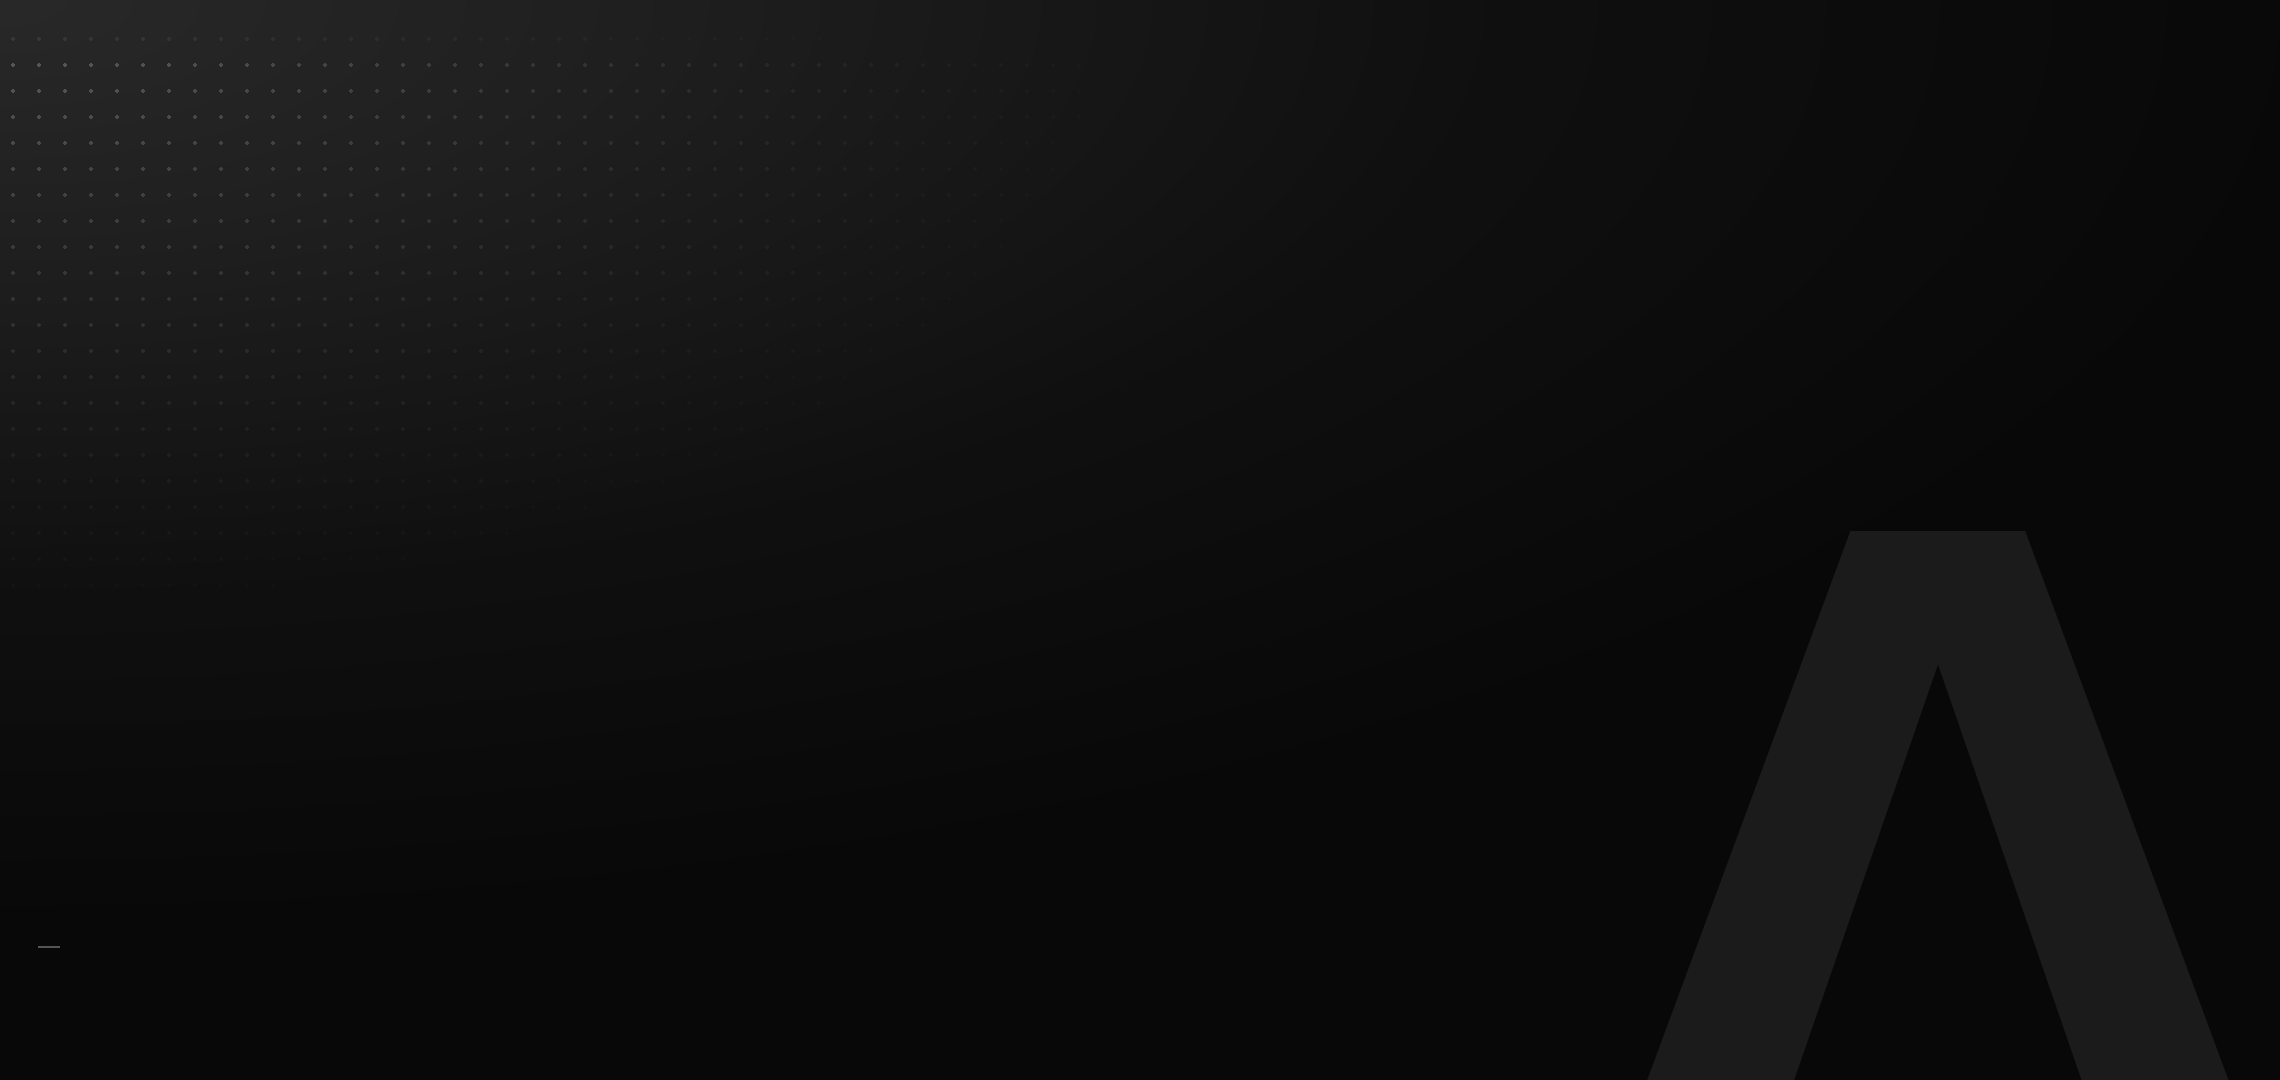
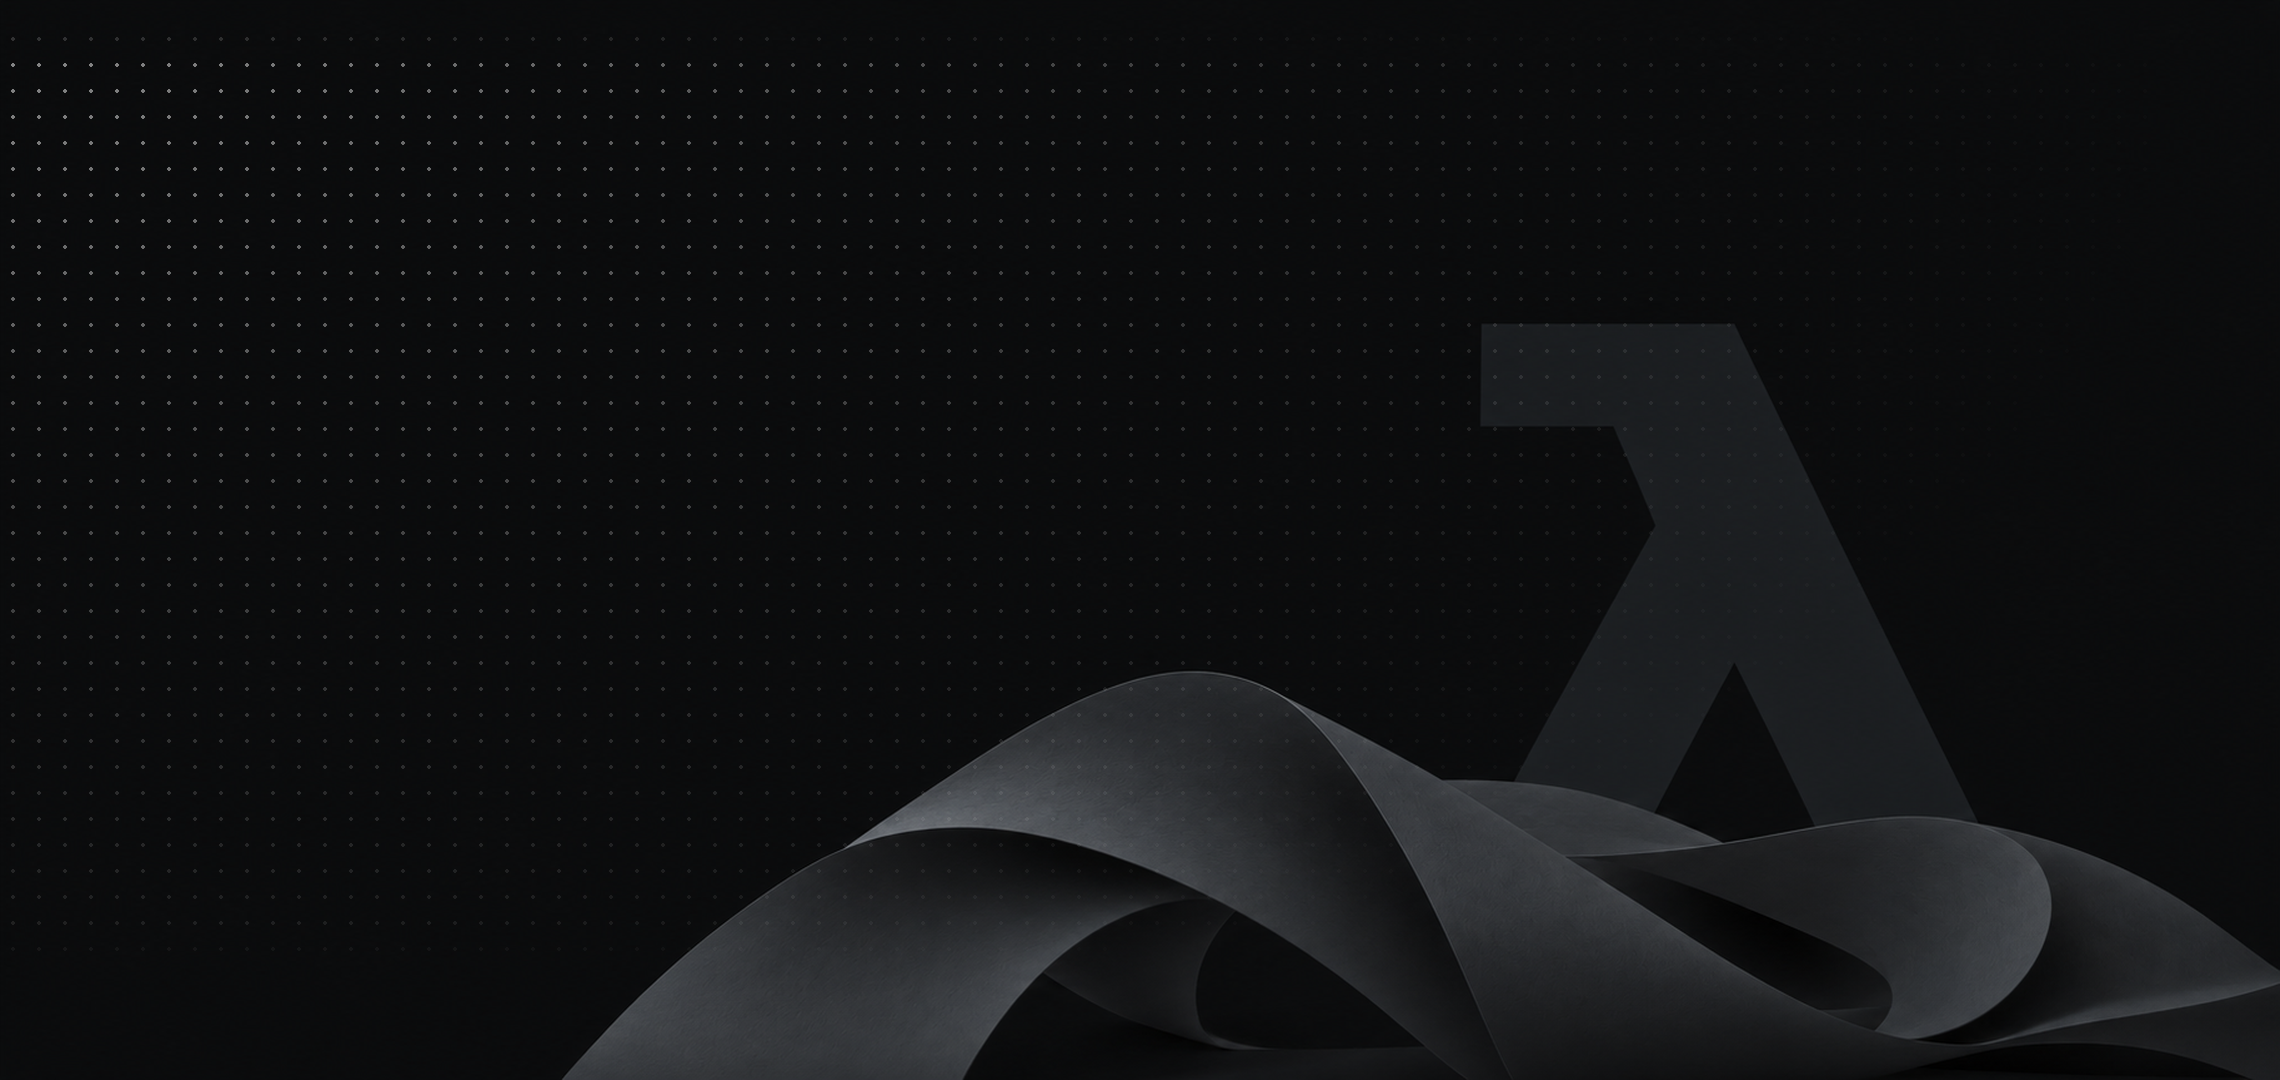
feat(lex): theme sync, light wallpapers and 72px top bar
Follows lambda_theme with theme-watch.sh, adds light plates and painted sources, updates the panel layout and DESIGN.md.

diff --git a/alpha/lex/make_wallpaper.py b/alpha/lex/make_wallpaper.py
@@ -1,10 +1,14 @@
 #!/usr/bin/env python3
-"""Generate the LEX wallpaper identity: radial graphite gradient, fine dot
-field fading with distance, clipped Lambda mark on the right, one tick line.
+"""Generate the LEX wallpaper identity: a painted background, the LambdaOS mark
+sitting behind the silhouette on the right, and the fine dot field fading from
+the top-left corner.
 
 Deterministic, numpy + PIL, no network. Usage:
-    make_wallpaper.py [WxH] [out.png]
-Defaults to 2280x1080 and theme/wallpaper/lambdaos-WxH.png.
+    make_wallpaper.py [WxH] [out.png] [--light]
+Defaults to 2280x1080 and theme/wallpaper/lambdaos-WxH.png. The painted
+background comes from theme/wallpaper/source/background-{dark,light}.png; if it
+is missing the radial graphite gradient is used instead, so the script still
+works on its own.
 """
 import re
 import sys
@@ -14,30 +18,62 @@ import numpy as np
 from PIL import Image, ImageDraw, ImageFont
 
 BASE = Path(__file__).resolve().parent
+SOURCE = BASE / "theme" / "wallpaper" / "source"
 FONT = "/usr/share/fonts/truetype/dejavu/DejaVuSans-Bold.ttf"
 REF_H = 1080
-TOP_BAR = 28     # xfce4-panel height
+TOP_BAR = 44     # xfce4-panel height
 DOCK_BAND = 110  # dock 76 + 12 px gap + margin
 EDGE = 36        # dot fade ramp just outside the reserved bands
 
 
-def render(w: int, h: int) -> Image.Image:
-    s = h / REF_H
+def painted(w: int, h: int, light: bool) -> Image.Image:
+    """The soft silhouette painted for this build, or the radial gradient if absent."""
+    name = "background-light.png" if light else "background-dark.png"
+    path = SOURCE / name
+    if path.is_file():
+        plate = Image.open(path).convert("RGB").resize((w, h), Image.LANCZOS)
+        if light:
+            arr = np.array(plate).astype(np.float32)
+            plate = Image.fromarray(np.clip(243 + (arr - 243) * 1.9, 0, 255).astype(np.uint8))
+        return plate
     y, x = np.mgrid[0:h, 0:w].astype(np.float32)
     radius = np.sqrt((x / (w * 1.05)) ** 2 + (y / (h * 0.88)) ** 2)
     stops = [0.0, 0.25, 0.62, 1.0]
     colors = [(0x29, 0x29, 0x29), (0x20, 0x20, 0x20), (0x10, 0x10, 0x10), (0x08, 0x08, 0x08)]
     channels = [np.interp(radius, stops, [c[i] for c in colors]) for i in range(3)]
-    img = Image.fromarray(np.dstack(channels).astype(np.uint8)).convert("RGBA")
-    draw = ImageDraw.Draw(img)
+    return Image.fromarray(np.dstack(channels).astype(np.uint8)).convert("RGB")
 
-    # Clipped Lambda mark on the right, as on the setup plate.
-    font = ImageFont.truetype(FONT, round(780 * s))
-    draw.text((w - 40 * s, h + 20 * s), "Λ", font=font, fill=(0x1b, 0x1b, 0x1b, 255), anchor="rs")
+
+def mark(w: int, h: int, light: bool) -> Image.Image:
+    """The LambdaOS mark, low contrast and faded at the bottom so the painted
+    silhouette reads as sitting in front of it. Clipped by the bottom edge."""
+    height = round(h * 0.74)
+    glyph = Image.open(SOURCE / "mark.png").convert("RGBA")
+    glyph = glyph.crop(glyph.getbbox()).resize((height, height), Image.LANCZOS)
+    pad = Image.new("RGBA", (w, h), (0, 0, 0, 0))
+    # Right edge at 86% of the width: to the right, but not against the border.
+    x = round(w * 0.86) - glyph.width
+    y = h - round(glyph.height * 0.93)
+    tint = (0xE2, 0xE2, 0xDC, 255) if light else (0x26, 0x28, 0x2A, 255)
+    solid = Image.new("RGBA", glyph.size, tint)
+    pad.paste(solid, (x, y), glyph)
+    # Fade toward the bottom edge: the silhouette in front covers the lower part.
+    ramp = np.clip((np.mgrid[0:h, 0:w][0].astype(np.float32) - h * 0.55) / (h * 0.5), 0, 1)
+    alpha = np.array(pad)[:, :, 3].astype(np.float32) * (1 - 0.65 * ramp)
+    out = np.array(pad)
+    out[:, :, 3] = np.clip(alpha, 0, 255).astype(np.uint8)
+    return Image.fromarray(out)
+
+
+def render(w: int, h: int, light: bool = False) -> Image.Image:
+    s = h / REF_H
+    img = painted(w, h, light).convert("RGBA")
+    img = Image.alpha_composite(img, mark(w, h, light))
+    draw = ImageDraw.Draw(img)
     # Tick sits above the dock band so the band keeps no local detail.
     tick_y = h - DOCK_BAND - 24
-    draw.line([(38 * s, tick_y), (59 * s, tick_y)], fill=(0x55, 0x55, 0x55, 255),
-              width=max(1, round(2 * s)))
+    ink = (0x9a, 0x9a, 0x96, 255) if light else (0x55, 0x55, 0x55, 255)
+    draw.line([(38 * s, tick_y), (59 * s, tick_y)], fill=ink, width=max(1, round(2 * s)))
 
     dots = Image.new("RGBA", (w, h), (0, 0, 0, 0))
     dot = ImageDraw.Draw(dots)
@@ -50,9 +86,10 @@ def render(w: int, h: int) -> Image.Image:
         xx = 13 * s
         while xx < w:
             d = ((xx / (w * 0.62)) ** 2 + (yy / (h * 0.72)) ** 2) ** 0.5
-            alpha = int(255 * 0.32 * max(0.0, 1.0 - d) ** 2 * band)
+            alpha = int(255 * (0.20 if light else 0.32) * max(0.0, 1.0 - d) ** 2 * band)
             if alpha > 3:
-                dot.ellipse([xx - r, yy - r, xx + r, yy + r], fill=(0xdd, 0xdd, 0xdd, alpha))
+                tone = (0x2a, 0x2a, 0x28, alpha) if light else (0xdd, 0xdd, 0xdd, alpha)
+                dot.ellipse([xx - r, yy - r, xx + r, yy + r], fill=tone)
             xx += spacing
         yy += spacing
 
@@ -62,15 +99,19 @@ def render(w: int, h: int) -> Image.Image:
 
 
 def main() -> int:
-    geom = sys.argv[1] if len(sys.argv) > 1 else "2280x1080"
+    args = [a for a in sys.argv[1:] if a != "--light"]
+    light = "--light" in sys.argv[1:] or "--light" in sys.argv
+    geom = args[0] if args else "2280x1080"
     m = re.fullmatch(r"([1-9]\d{2,4})x([1-9]\d{2,4})", geom)
     if not m:
         print(f"usage: {Path(sys.argv[0]).name} [WxH] [out.png]", file=sys.stderr)
         return 2
     w, h = int(m.group(1)), int(m.group(2))
-    out = Path(sys.argv[2]) if len(sys.argv) > 2 else BASE / "theme" / "wallpaper" / f"lambdaos-{w}x{h}.png"
+    # The plain name is the one the desktop loads; the light plate ships beside it.
+    suffix = "-light" if light else ""
+    out = Path(args[1]) if len(args) > 1 else BASE / "theme" / "wallpaper" / f"lambdaos-{w}x{h}{suffix}.png"
     out.parent.mkdir(parents=True, exist_ok=True)
-    render(w, h).save(out)
+    render(w, h, light).save(out)
     print(out)
     return 0
 

diff --git a/alpha/lex/test/RfbClientTest.java b/alpha/lex/test/RfbClientTest.java
@@ -164,6 +164,9 @@ public final class RfbClientTest {
         client.key(0x41, true);
         client.key(0x41, false);
         client.scroll(1);
+        // Input and the incremental request travel through the writer queue:
+        // give the writer a moment before closing, or close() drops them.
+        Thread.sleep(300);
         client.close();
 
         Path report = Paths.get(reportPath);
@@ -172,7 +175,7 @@ public final class RfbClientTest {
         while (System.currentTimeMillis() < deadline) {
             if (Files.exists(report)) {
                 json = new String(Files.readAllBytes(report), StandardCharsets.UTF_8);
-                if (json.contains("\"fb_requests\"")) break;
+                if (json.contains("\"fb_requests\":[[0,0,0,64,48],[1,0,0,64,48]]")) break;
             }
             Thread.sleep(50);
         }

diff --git a/alpha/lex/theme/DESIGN.md b/alpha/lex/theme/DESIGN.md
@@ -39,11 +39,12 @@ not installed anywhere in the system, so it must not be named. Monospace:
 
 ## Top bar (Kali-like, subtle)
 
-- 28px tall, full width, bg #101112 at 94%, 1px bottom border line-soft, 10px
-  horizontal padding.
-- Left: Lambda menu (24px glyph), 2 workspaces (18px), separator.
-- Centre-left: window buttons (tasklist), max 50% of the width.
-- Right: tray icons 18px, clock HH:MM.
+- 72px tall, full width, bg #141516 at 98%, 1px bottom border line-soft, 10px
+  horizontal padding, 40px icons.
+- Left: Lambda menu (40px glyph), separator.
+- Centre-left: window buttons with labels (tasklist), max 50% of the width.
+- Right: CPU/RAM/battery status (genmon), separator, clock with date and time
+  (`%a %d %b` above `%H:%M`).
 
 ## Bottom dock (macOS-like, centred)
 
@@ -69,7 +70,8 @@ not installed anywhere in the system, so it must not be named. Monospace:
 - Base grid 24, stroke 1.6, round caps and joins, no fills except tiny details.
 - App icons: 48px squircle tile (#1C2023, radius 12) with a 24px monochrome
   glyph (#E9E9E9); secondary detail may use #9AA0A6. No colour.
-- Panel/tray: 18px glyphs at 1.4 stroke.
+- Panel: 40px glyphs at 1.4 stroke inside the 72px bar; the dock keeps 48px
+  icons at 1.4 stroke.
 - The theme inherits `Adwaita` and `hicolor` for anything not drawn.
 
 ## Ownership
